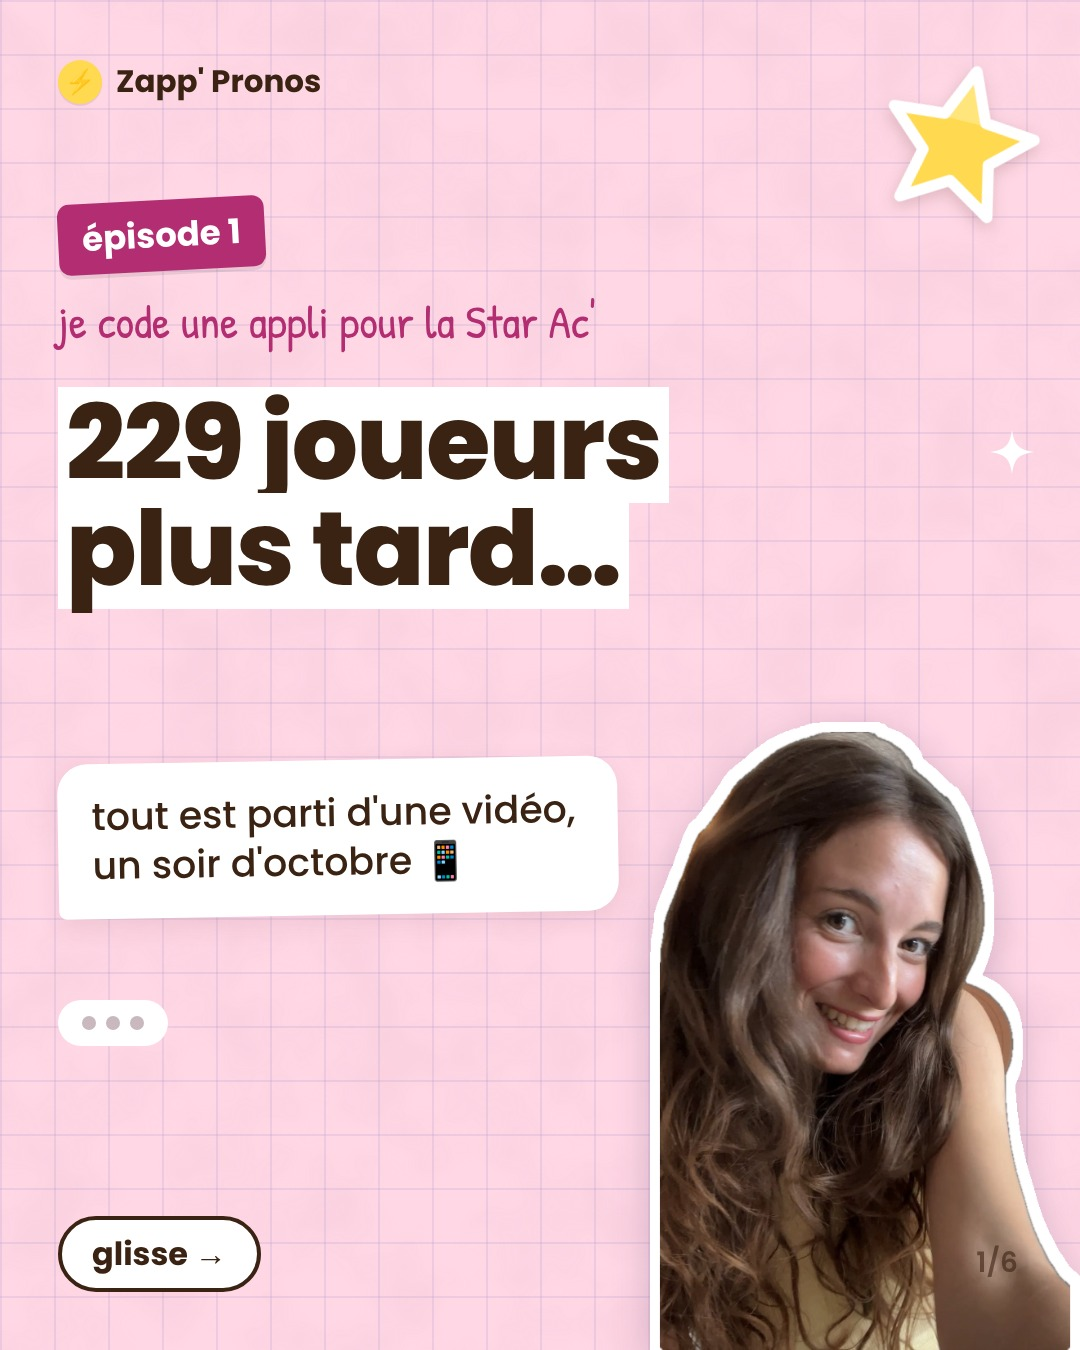
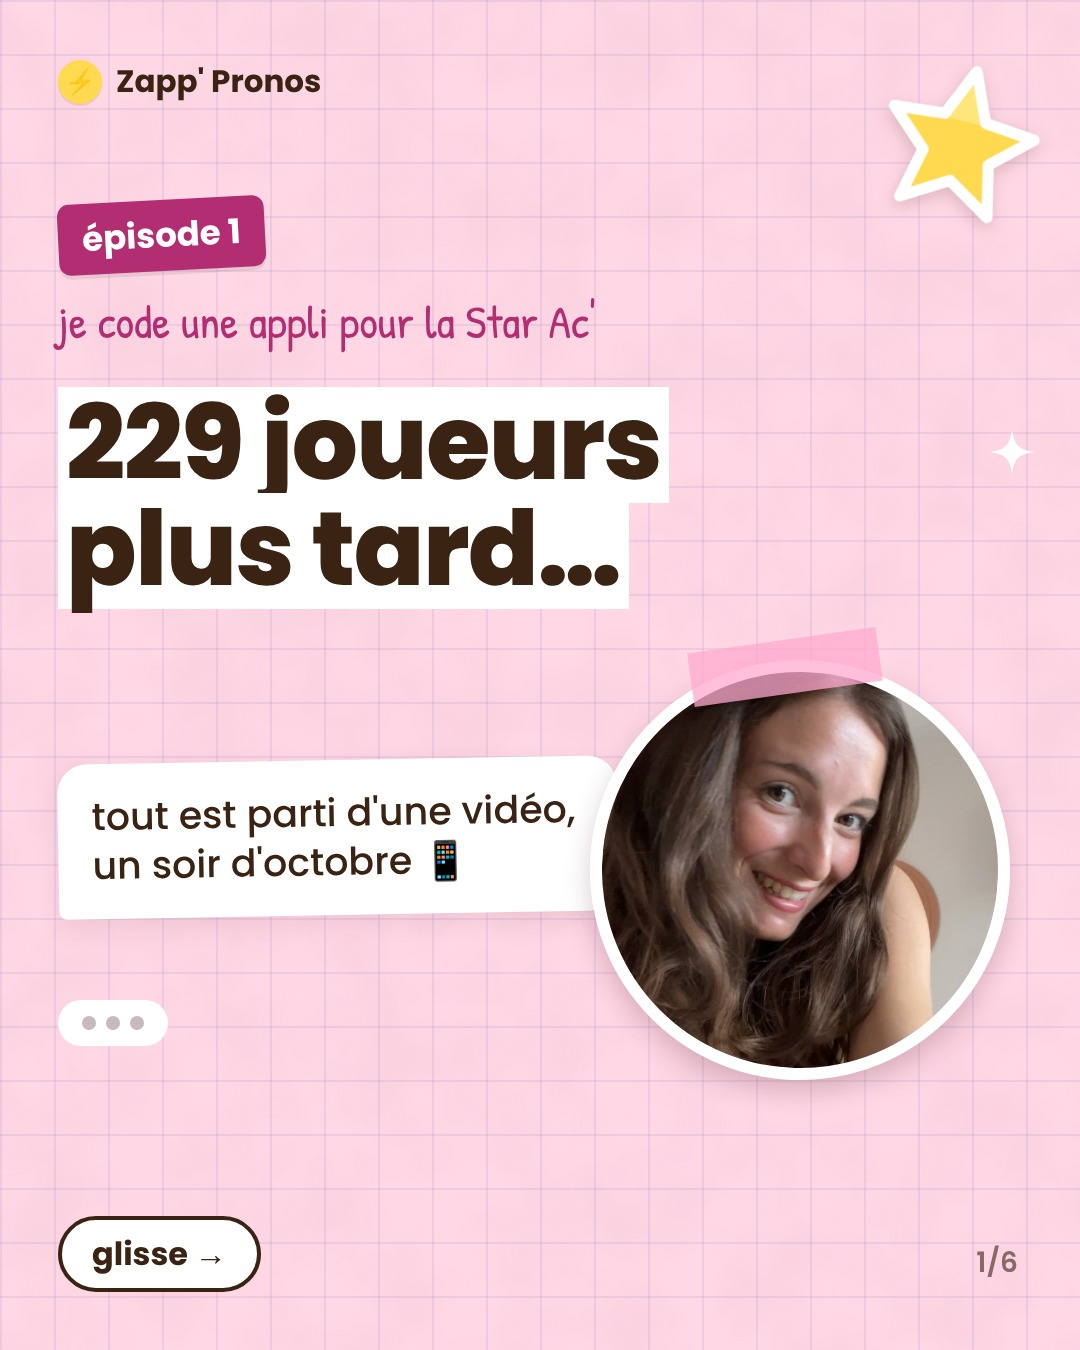
Covers V3 : retours Tanguy (photo ronde ép.1, photos variables nommés, Noémie décalée, meilleur détourage team)
Claude-Session: https://claude.ai/code/session_0156Lzyyocaj5mSMqKv9kGpd

Changed region(s): [[0.55, 0.4667, 1.0, 1.0]]

diff --git a/templates/covers-photos.html b/templates/covers-photos.html
@@ -8,7 +8,7 @@
 .widget .big{font-weight:800;font-size:110px;line-height:1;letter-spacing:-2px}
 .widget .lab{font-family:H;font-size:40px;margin-top:10px}
 .notif{background:#fff;border-radius:34px;padding:24px 30px;display:flex;align-items:center;gap:22px;box-shadow:0 8px 22px rgba(120,60,90,.12);margin-bottom:22px}
-.notif .ic{width:84px;height:84px;border-radius:50%;display:grid;place-items:center;font-size:40px;font-weight:800;background:var(--gold)}
+.notif .ic{width:92px;height:92px;border-radius:50%;display:grid;place-items:center;font-size:40px;font-weight:800;background:var(--gold)}
 .notif .pc{margin-left:auto;font-weight:800;font-size:54px;color:var(--mag)}
 .chk{display:flex;align-items:center;gap:26px;font-family:H;font-size:54px;min-height:104px;line-height:1.1}
 .chk b{flex:none;width:52px;height:52px;border:4px solid var(--ink);border-radius:10px;display:grid;place-items:center;font-family:P;font-size:36px;background:#fff}
@@ -58,18 +58,21 @@ mk('ep1','grid','var(--pink)',LOGO+STAR(880,60,160,14)+SPARK(990,430,44)+`
 <h1 style="position:absolute;left:58px;top:390px;width:960px;font-size:104px"><span class="hl">229 joueurs</span><br><span class="hl">plus tard…</span></h1>
 <div class="bubble them" style="position:absolute;left:58px;top:760px;width:560px;transform:rotate(-1deg)">tout est parti d'une vidéo, un soir d'octobre 📱</div>
 <div class="typing" style="position:absolute;left:58px;top:1000px"><b></b><b></b><b></b></div>`
-+PB('moi_selfie.png','right',0,430)+SW+FOOT(1,6));
++`<div style="position:absolute;right:70px;top:660px;width:420px;height:420px;border-radius:50%;border:12px solid #fff;overflow:hidden;box-shadow:0 12px 26px rgba(90,40,50,.22);transform:rotate(3deg)"><img src="moi_selfie_full.jpg" style="width:100%;height:100%;object-fit:cover;object-position:50% 30%"></div><div class="tape pk" style="left:690px;top:640px;transform:rotate(-8deg)"></div>`+SW+FOOT(1,6));
 
 /* 2. Nommés prime 5 (Reel + TikTok) : MODÈLE. Les photos des 3 vrais nommés-par-les-joueurs
    s'ajoutent quand la deadline est passée (remplir N, sinon aucune photo n'est affichée). */
-const N=[]; // ex. après la deadline : [['noemie','Noémie','64 %'],['cameron','Cameron','51 %'],['zoe','Zoé','38 %']]
-const ROW=(r,i,top)=>`<div style="position:absolute;left:58px;right:58px;top:${top+i*124}px;height:108px;background:#fff;border-radius:30px;display:flex;align-items:center;gap:22px;padding:0 34px 0 ${r[3]?'14px':'34px'};box-shadow:0 8px 20px rgba(120,60,90,.12)">${r[3]?`<img src="candidats/${r[3]}.png" style="width:84px;height:84px;border-radius:50%;object-fit:cover;object-position:top;background:#FFF1B4;border:4px solid #FFF1B4">`:`<div style="width:70px;height:70px;border-radius:50%;display:grid;place-items:center;font-weight:800;font-size:34px;background:#FFF1B4">${r[0]}</div>`}<div style="font-weight:800;font-size:42px">${r[1]}</div><div style="margin-left:auto;font-weight:800;font-size:44px;color:var(--mag)">${r[2]}</div></div>`;
+/* Variables (champs du Studio n1/p1, n2/p2, n3/p3) : la photo suit le prénom automatiquement. Valeurs d'exemple ci-dessous. */
+const V={nb:'90',n1:'Noémie',p1:'64',n2:'Cameron',p2:'51',n3:'Zoé',p3:'38'};
+const slug=x=>x.normalize('NFD').replace(/[\u0300-\u036f]/g,'').toLowerCase().replace(/[^a-z0-9]/g,'');
+const N=[[V.n1,V.p1],[V.n2,V.p2],[V.n3,V.p3]].map(([n,p])=>[slug(n),n,p+' %']);
+const ROW=(r,i,top)=>`<div style="position:absolute;left:58px;right:58px;top:${top+i*124}px;height:108px;background:#fff;border-radius:30px;display:flex;align-items:center;gap:22px;padding:0 34px 0 ${r[3]?'14px':'34px'};box-shadow:0 8px 20px rgba(120,60,90,.12)">${r[3]?`<img src="candidats/${r[3]}.png" style="width:92px;height:92px;border-radius:50%;object-fit:cover;object-position:top;background:#FFF1B4;border:4px solid #FFF1B4">`:`<div style="width:70px;height:70px;border-radius:50%;display:grid;place-items:center;font-weight:800;font-size:34px;background:#FFF1B4">${r[0]}</div>`}<div style="font-weight:800;font-size:42px">${r[1]}</div><div style="margin-left:auto;font-weight:800;font-size:44px;color:var(--mag)">${r[2]}</div></div>`;
 const NR=N.length?N.map((x,i)=>[i+1,x[1],x[2],x[0]]):[[1,'Prénom 1','64 %'],[2,'Prénom 2','51 %'],[3,'Prénom 3','38 %']];
 mk('nom5','grid','var(--pink)',LOGO+STAR(880,60,140,12)+`
 <div style="position:absolute;left:58px;top:170px"><span class="tag">prime 5 · les nommés</span></div>
 <h1 style="position:absolute;left:58px;top:270px;width:960px;font-size:96px;line-height:1.1"><span class="hl">Qui les joueurs</span><br><span class="hl">voient nommés ?</span></h1>`
 +EM('🔮',880,420,100,10)
-+`<div class="cv" style="position:absolute;left:66px;top:560px;font-size:56px;transform:rotate(-2deg)">90 joueurs ont voté, voici leur top 3 👇</div>`
++`<div class="cv" style="position:absolute;left:66px;top:560px;font-size:56px;transform:rotate(-2deg)">${V.nb} joueurs ont voté, voici leur top 3 👇</div>`
 +NR.map((r,i)=>ROW(r,i,680)).join('')
 +`<div class="bubble me" style="position:absolute;right:58px;top:1080px;width:600px">tu es d'accord avec eux ?</div>`+MOD);
 
@@ -78,9 +81,9 @@ mk('chou','grid','var(--pink)',LOGO+STAR(880,60,140,12)+`
 <div style="position:absolute;left:58px;top:170px"><span class="tag">le chouchou des joueurs</span></div>
 <h1 style="position:absolute;left:58px;top:270px;width:960px;font-size:120px;line-height:1.05"><span class="hl">À 1 voix</span><br><span class="hl">près 😱</span></h1>
 <div class="cv" style="position:absolute;left:66px;top:575px;font-size:54px;transform:rotate(-2deg)">173 joueurs ont choisi leur chouchou dans l'appli</div>
-<div class="w" style="position:absolute;left:58px;top:690px;width:440px;background:#fff;border-radius:40px;padding:26px 36px;box-shadow:0 8px 22px rgba(120,60,90,.10)"><div style="font-weight:800;font-size:110px;line-height:1;color:var(--mag)">42</div><div style="font-family:H;font-size:40px;margin-top:8px">voix pour Noémie 💛</div></div>
-<div class="w" style="position:absolute;right:58px;top:690px;width:440px;background:#fff;border-radius:40px;padding:26px 36px;box-shadow:0 8px 22px rgba(120,60,90,.10)"><div style="font-weight:800;font-size:110px;line-height:1;color:var(--mag)">41</div><div style="font-family:H;font-size:40px;margin-top:8px">voix pour Cameron 💙</div></div>`
-+PB(C('noemie'),'left',0,330)+PB(C('cameron'),'right',0,330)+SWC+FOOT(1,3));
+<div class="w" style="position:absolute;left:58px;top:670px;width:440px;background:#fff;border-radius:40px;padding:26px 36px;box-shadow:0 8px 22px rgba(120,60,90,.10)"><div style="font-weight:800;font-size:110px;line-height:1;color:var(--mag)">42</div><div style="font-family:H;font-size:40px;margin-top:8px">voix pour Noémie 💛</div></div>
+<div class="w" style="position:absolute;right:58px;top:670px;width:440px;background:#fff;border-radius:40px;padding:26px 36px;box-shadow:0 8px 22px rgba(120,60,90,.10)"><div style="font-weight:800;font-size:110px;line-height:1;color:var(--mag)">41</div><div style="font-family:H;font-size:40px;margin-top:8px">voix pour Cameron 💙</div></div>`
++PB(C('noemie'),'left',40,420)+PB(C('cameron'),'right',0,420)+`<div class="tw" style="left:0;top:1240px;width:1080px;height:110px"><div class="dots" style="clip-path:${tornPoly(1080,110,13)};background-color:#FFF1B4"></div></div>`+SWC+FOOT(1,3));
 
 /* 4. Club des 11 (ven 6/11) — Antoine, Maud, Ydriss = les 3 vrais nommés du prime 4 (vérifié) */
 const CLUB=(id,line)=>mk(id,'grid','var(--yellow)',LOGO+STAR(880,60,140,-10)+`
@@ -96,7 +99,7 @@ CLUB('clubp','cathycrtl, Grevinou, Julastar + 8 autres<br>ont trouvé les 3 nomm
 mk('team','grid','var(--mint)',LOGO+STAR(880,60,140,10)+`
 <div style="position:absolute;left:58px;top:170px"><span class="tag">la team de la semaine</span></div>
 <h1 style="position:absolute;left:58px;top:270px;width:960px;font-size:110px;line-height:1.05"><span class="hl">🔥 NOM DE</span><br><span class="hl">LA TEAM</span></h1>
-<div style="position:absolute;left:58px;top:600px;width:560px;background:#fff;border-radius:40px;padding:30px 38px;box-shadow:0 8px 22px rgba(120,60,90,.10)"><div style="font-weight:800;font-size:110px;line-height:1;color:var(--mag)">12e → 6e</div><div style="font-family:H;font-size:40px;margin-top:10px">au classement des teams après le prime 5</div></div>
-<div class="bubble me" style="position:absolute;left:58px;top:960px;width:500px">tag ta team en commentaire 👇</div>`
-+PB('moi_top.png','right',0,470)+MOD);
+<div style="position:absolute;left:58px;top:880px;width:560px;z-index:2;background:#fff;border-radius:40px;padding:30px 38px;box-shadow:0 8px 22px rgba(120,60,90,.10)"><div style="font-weight:800;font-size:110px;line-height:1;color:var(--mag)">12e → 6e</div><div style="font-family:H;font-size:40px;margin-top:10px">au classement des teams après le prime 5</div></div>
+<div class="bubble me" style="position:absolute;left:58px;top:1180px;width:600px;z-index:2">tag ta team en commentaire 👇</div>`
++PB('moi_top.png','right',0,580)+MOD);
 </script></body></html>
